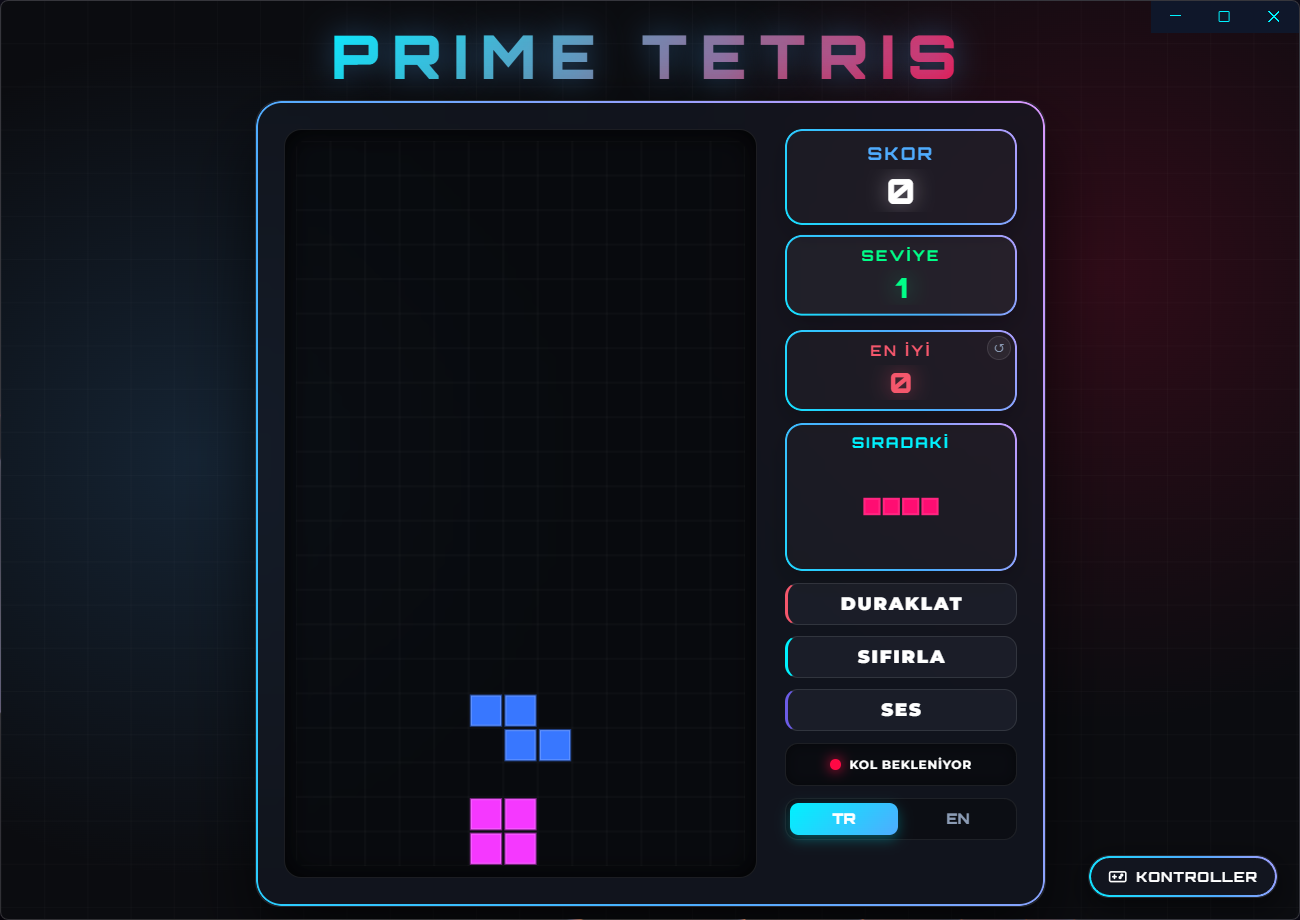
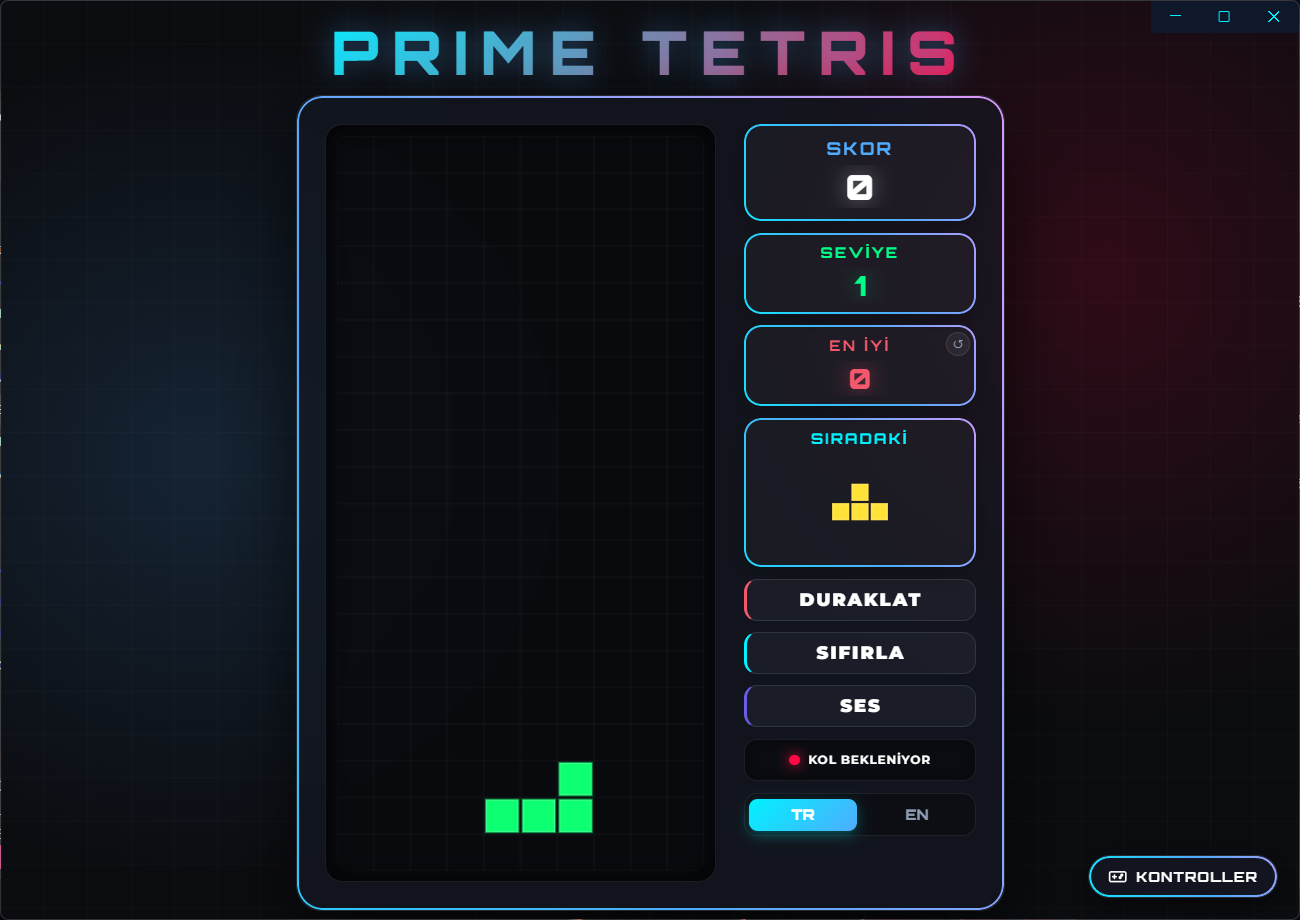
Oyun matrisi standart 10x20 boyutuna güncellendi

diff --git a/Tetris.html b/Tetris.html
@@ -1005,8 +1005,9 @@
         }
         muteBtn.addEventListener('click', () => Sound.toggle());
 
-        const SUTUN = 13;
-        const SATIR = 21;
+        const SUTUN = 10;
+        const SATIR = 20;
+        let BLOK_BOYUTU = 30;
         let skor = 0;
         let enIyiSkor = 0;
         let seviye = 1;